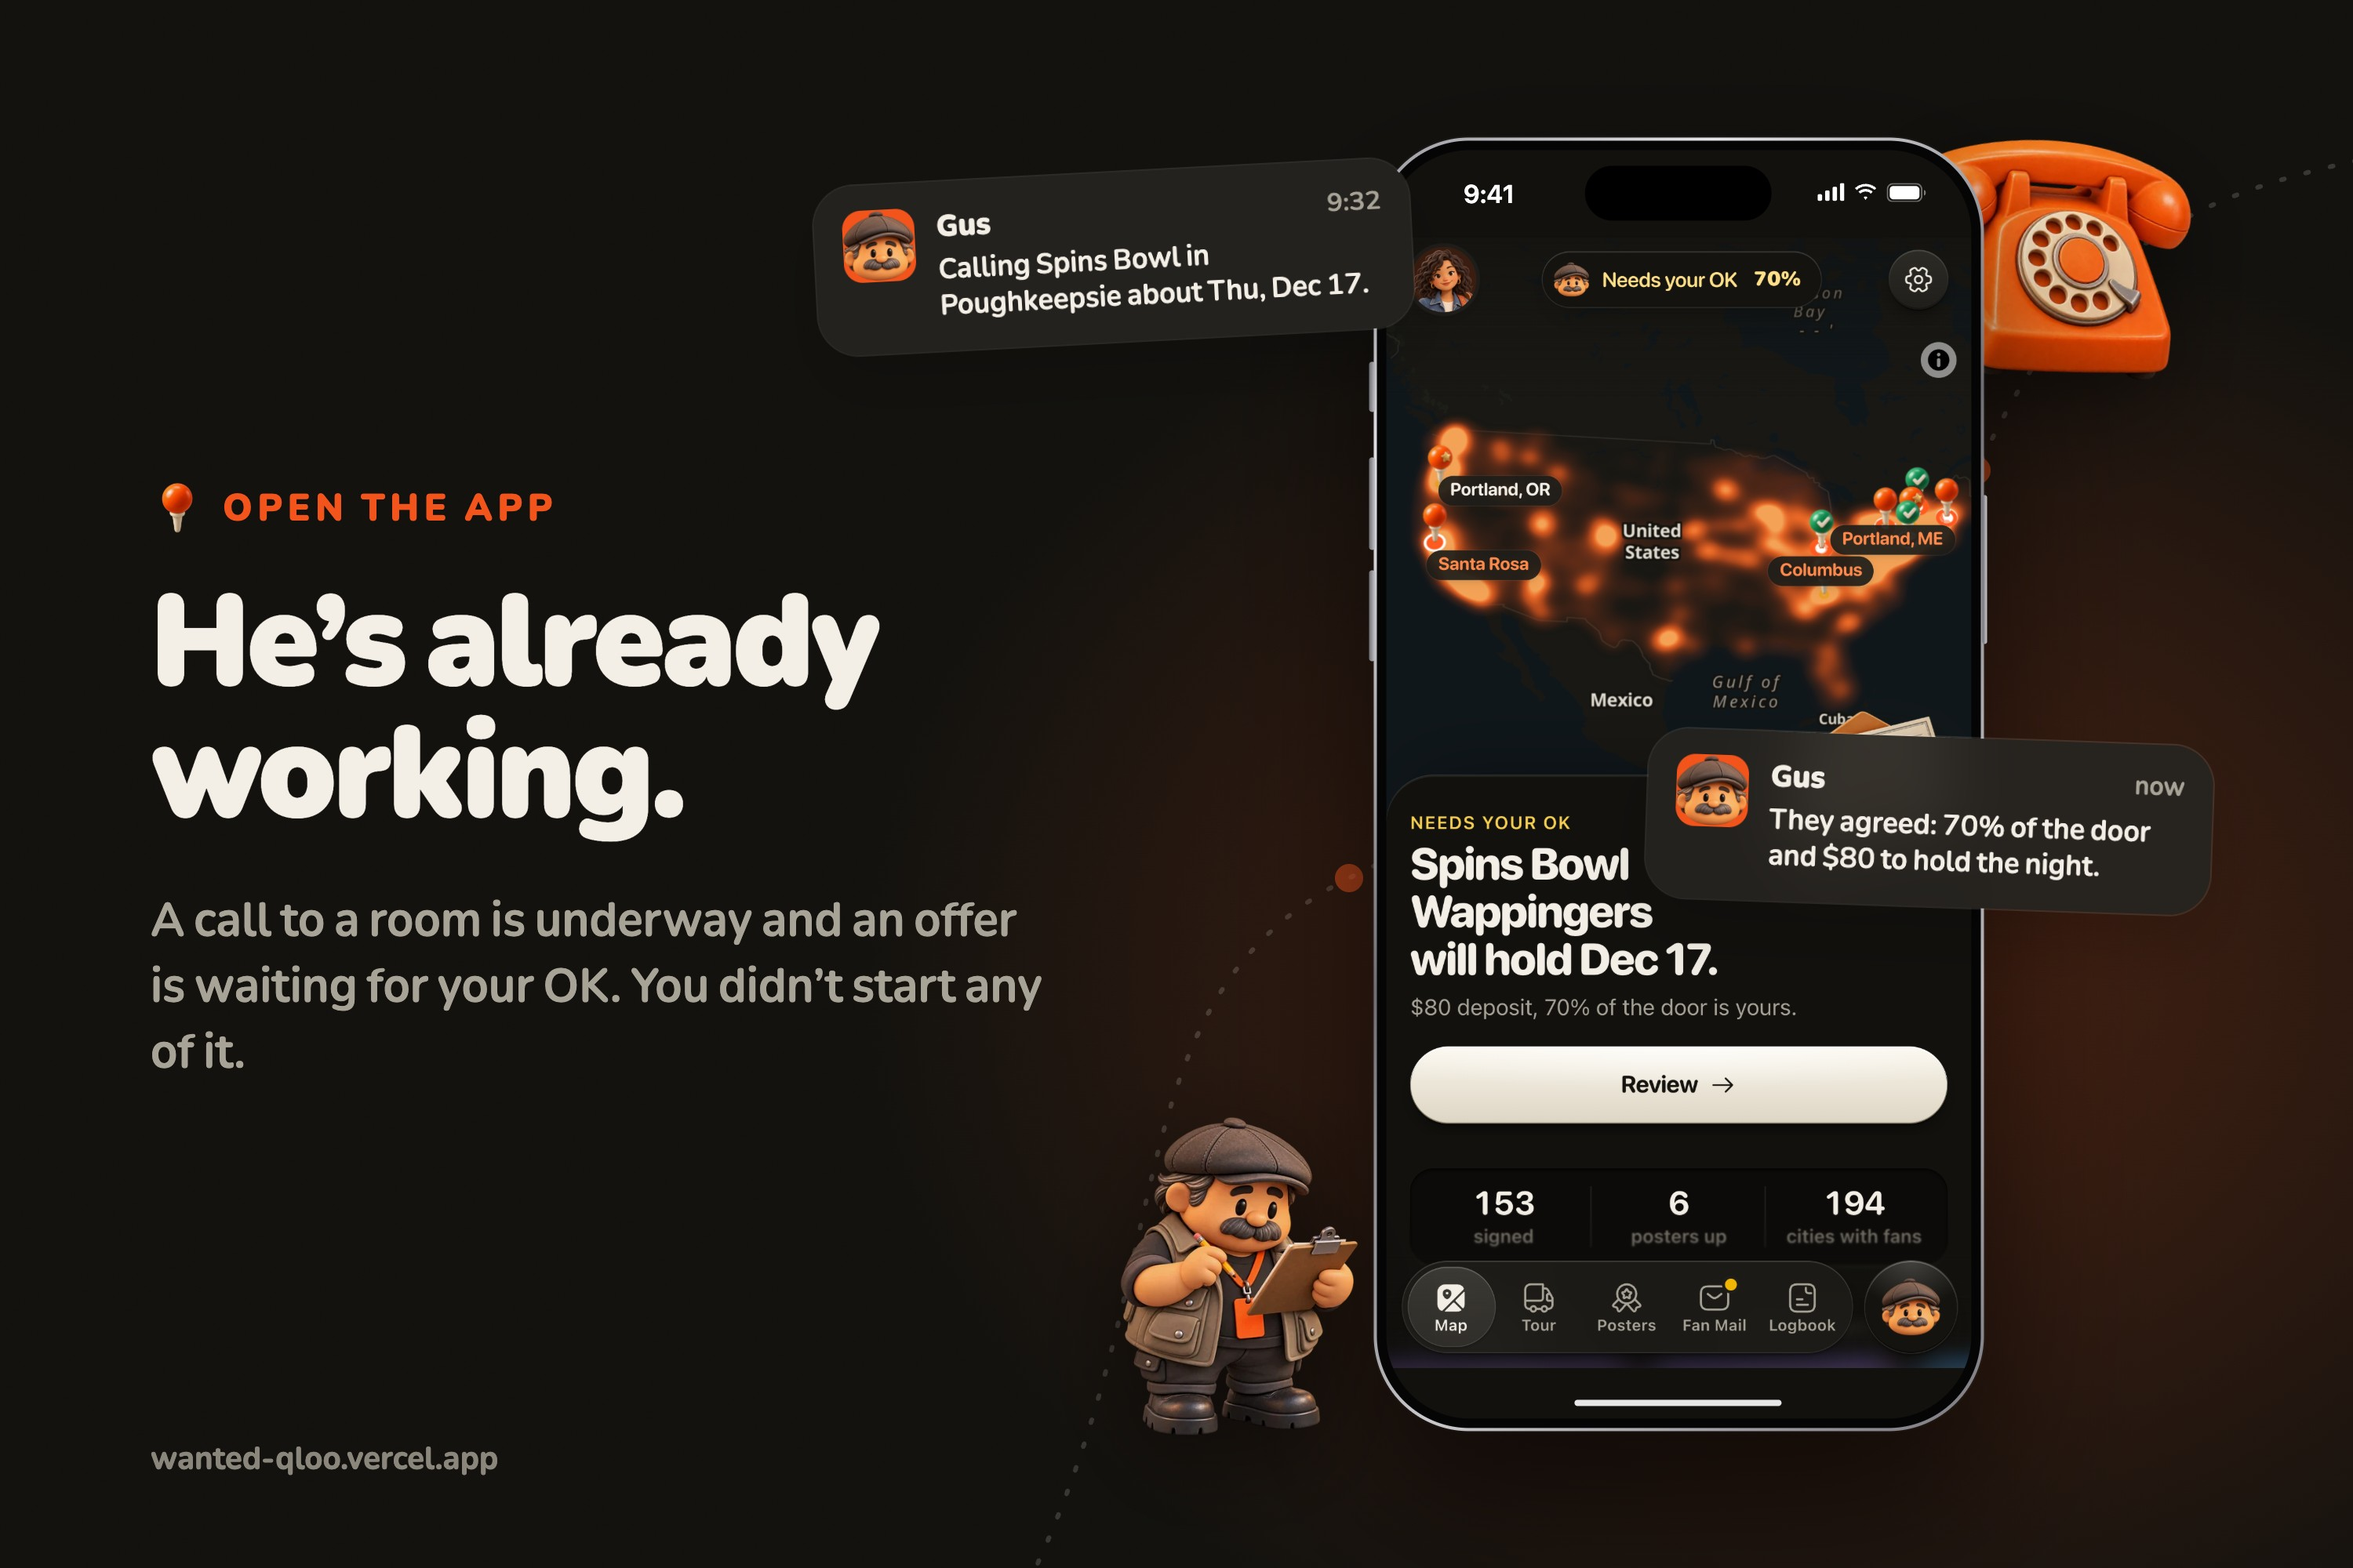
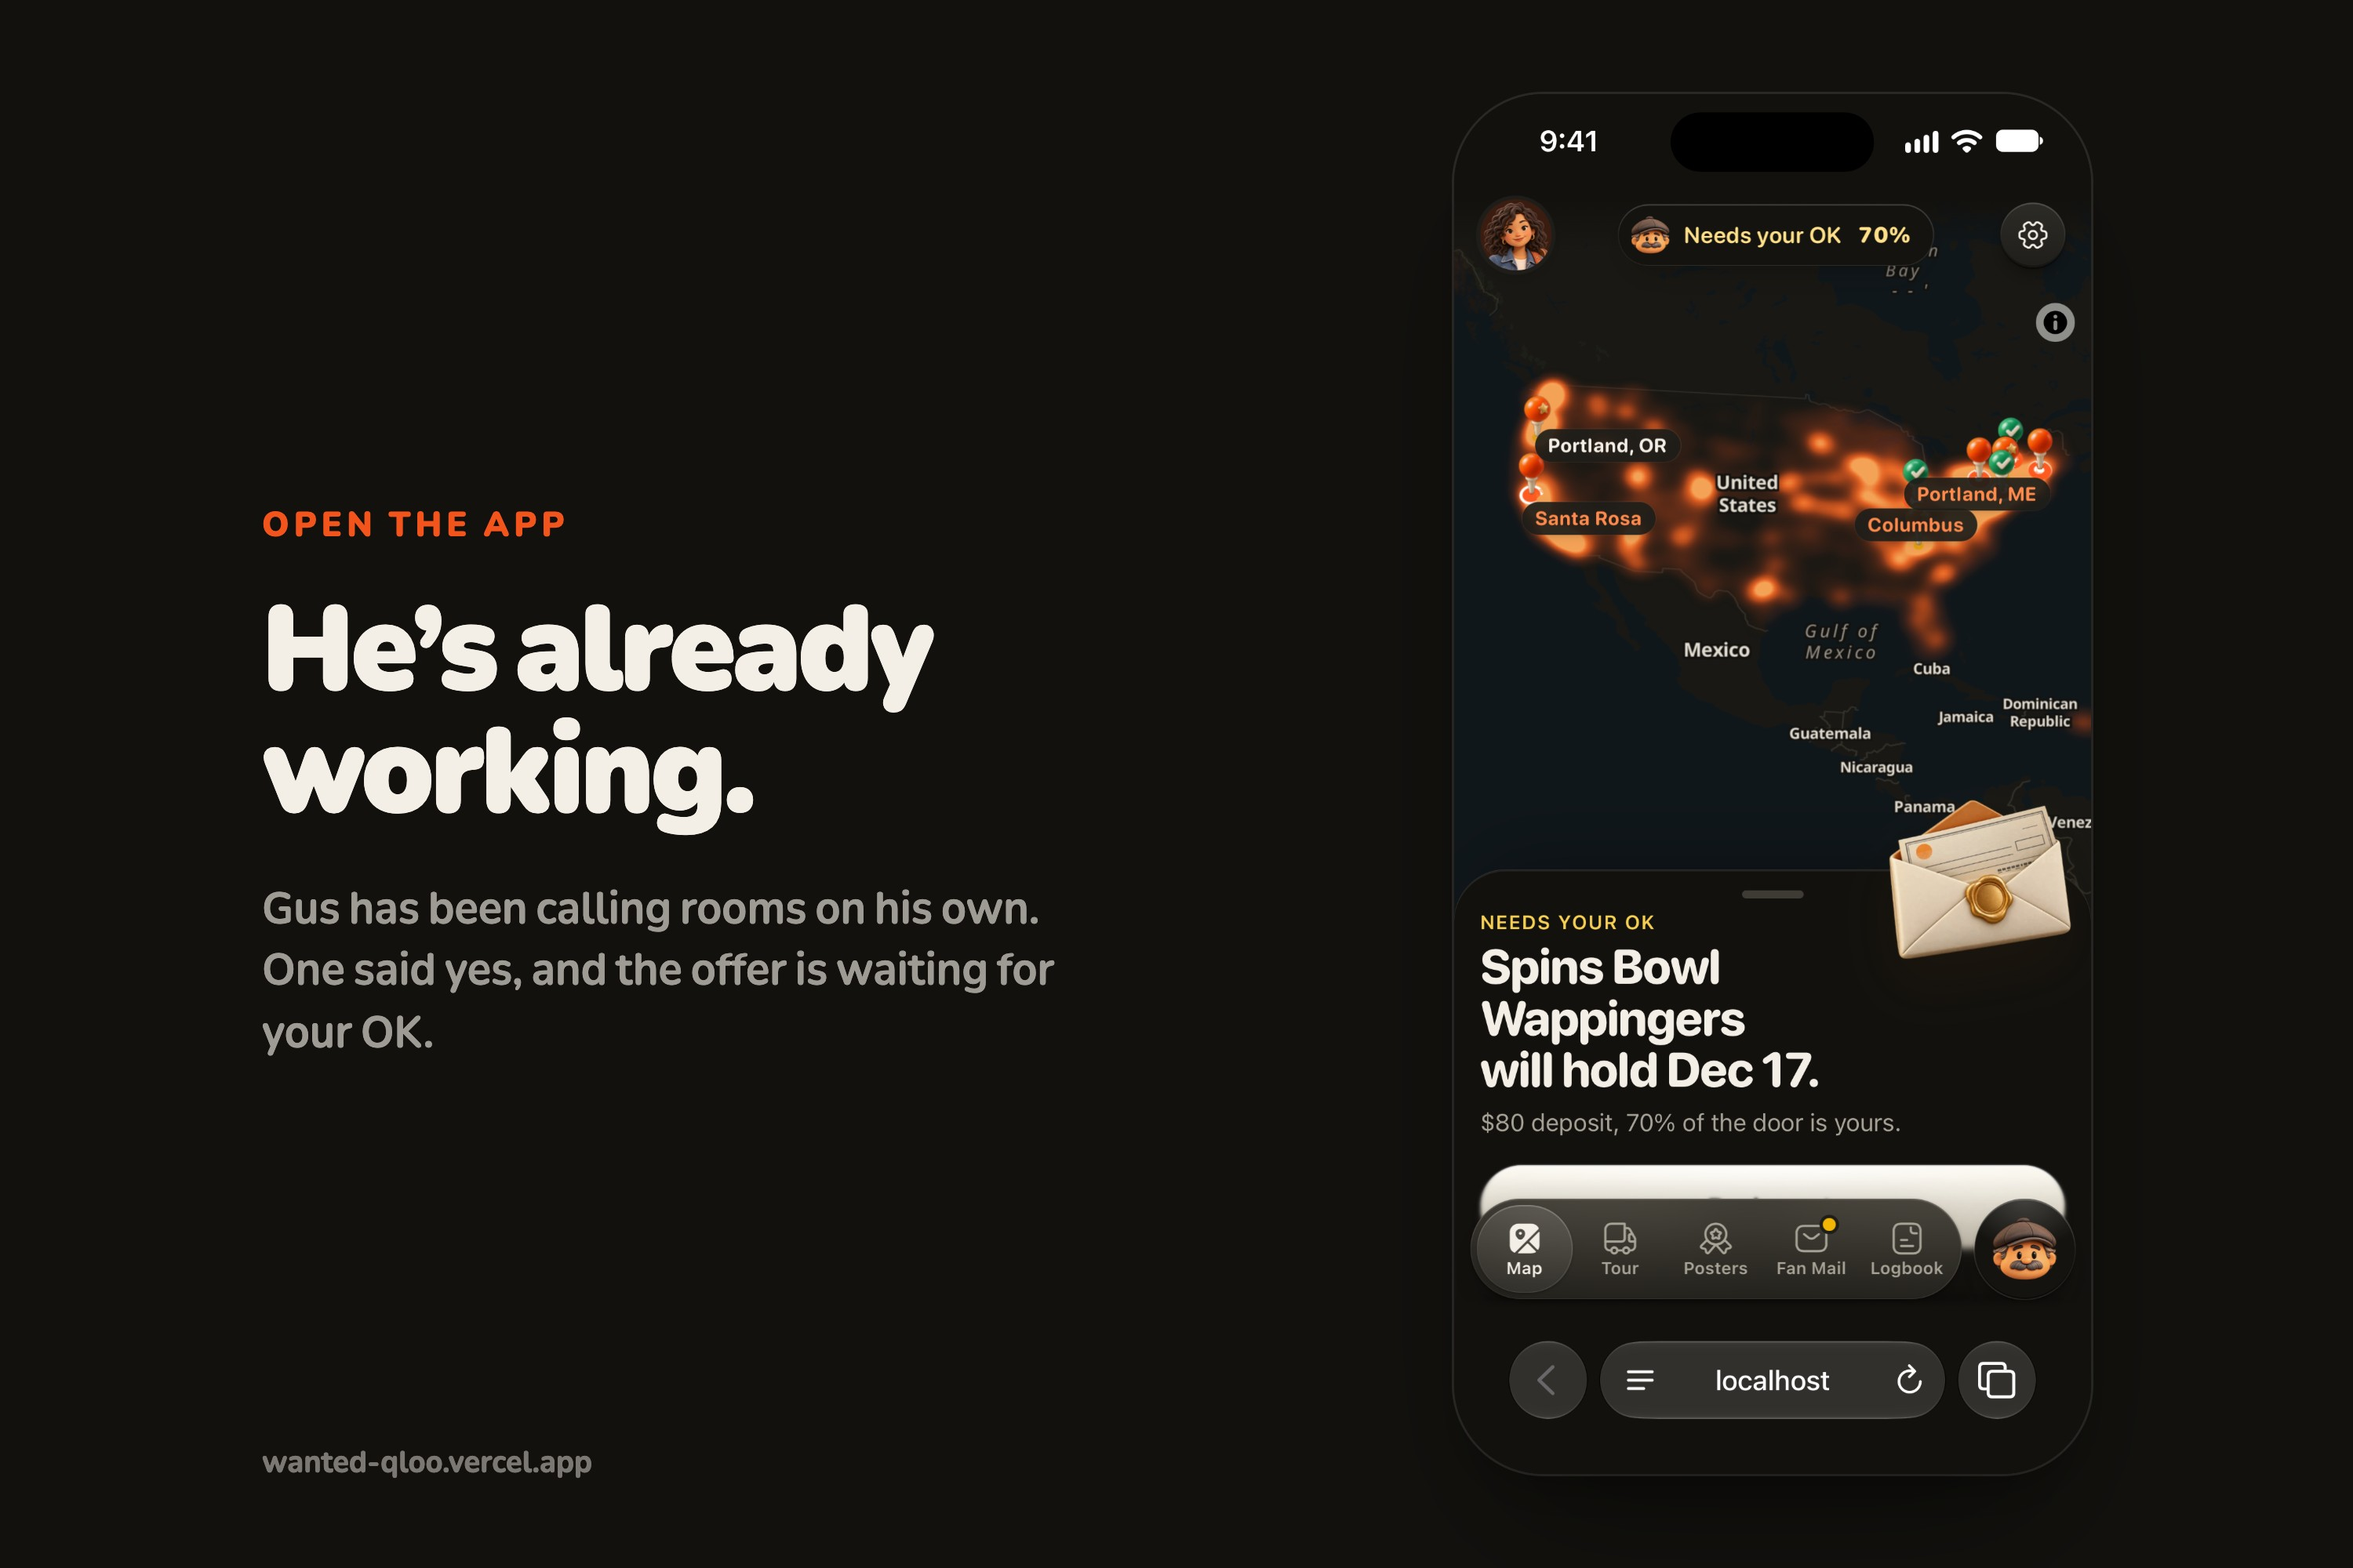
Gallery redone frameless: nine 3:2 cards from real iPhone Safari screenshots (iOS Simulator), no device frame and no props. Each screen keeps its rounded corners and sits on its page's own colour, so Safari's bars, the app and the card read as one surface. Light and dark alternate; new cards for the

diff --git a/docs/DEVPOST.md b/docs/DEVPOST.md
@@ -79,4 +79,4 @@ qloo, typescript, next.js, react, expo, openrouter, libsql, turso, maplibre, dec
 
 ## Image gallery
 
-Upload [docs/gallery](gallery) in order: `0-cover.jpg` as the thumbnail, then cards 1 to 7. They're 3:2, alternate light and dark, and put real app screenshots in an iPhone frame with our own art (`node scripts/gallery-shots.mjs <dir>` and again with `SCHEME=dark`, then `node scripts/gallery-cards.mjs <dir> docs/gallery`).
+Upload [docs/gallery](gallery) in order: `0-cover.jpg` as the thumbnail, then cards 1 to 8. They're 3:2 and alternate light and dark. Each one is a real iPhone Safari screenshot from the iOS Simulator, shown without a device frame: just the screen and its rounded corners, sitting on the page's own colour so Safari's bars, the app and the card read as one surface (`node scripts/gallery-shots.mjs <dir>` for the screens, then `node scripts/gallery-cards.mjs <dir> docs/gallery`).
